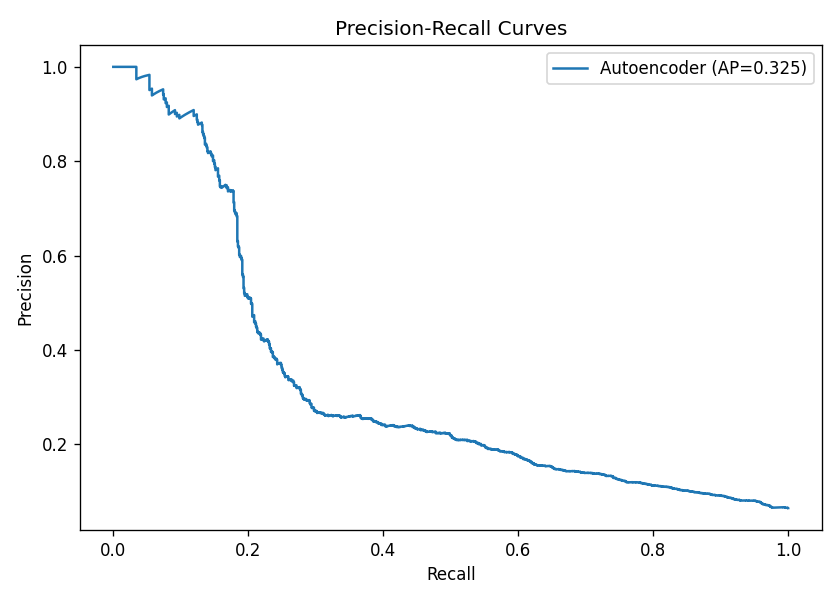
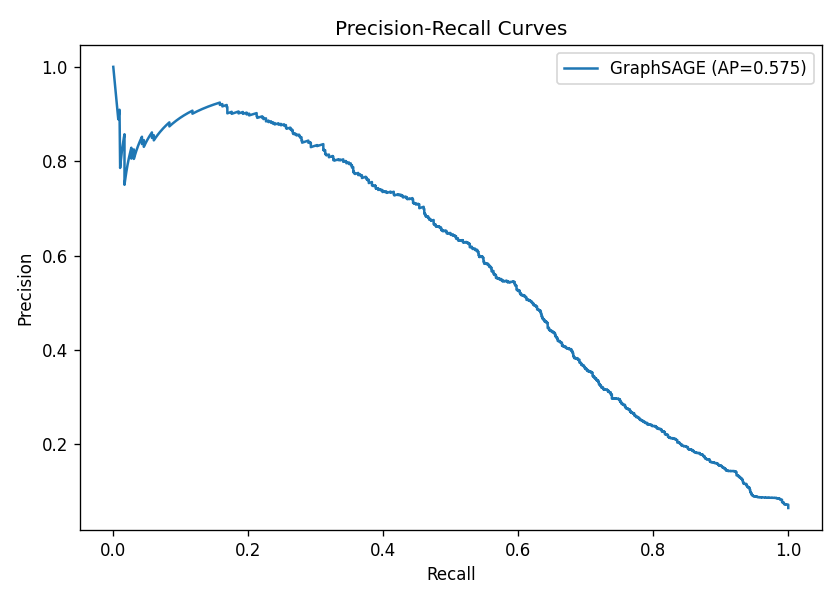
Add GraphSAGE GNN, training script, and graph utils

diff --git a/scripts/05_gnn.py b/scripts/05_gnn.py
@@ -1,0 +1,79 @@
+import sys
+sys.path.insert(0, '..')
+
+import torch
+import numpy as np
+import matplotlib.pyplot as plt
+
+from src.data_loader import load_all
+from src.graph_utils import build_graph
+from src.gnn import GraphSAGE, train_epoch, evaluate, class_weights
+from src.evaluation import evaluate as eval_metrics, plot_confusion_matrix, plot_pr_curve
+
+DEVICE  = torch.device("cuda" if torch.cuda.is_available() else "cpu")
+EPOCHS  = 200
+LR      = 1e-3
+HIDDEN  = 128
+
+print(f"Device: {DEVICE}")
+if DEVICE.type == "cuda":
+    print(f"GPU: {torch.cuda.get_device_name(0)}")
+
+# --- build graph ---
+df, edges = load_all()
+data, node_ids, scaler = build_graph(df, edges)
+
+# move to device incrementally (full graph fits in 12 GB VRAM)
+data = data.to(DEVICE)
+
+# --- model + optimizer ---
+input_dim = data.x.shape[1]
+model = GraphSAGE(input_dim=input_dim, hidden_dim=HIDDEN, output_dim=2, dropout=0.3).to(DEVICE)
+
+y_train = data.y[data.train_mask]
+weights = class_weights(y_train, DEVICE)
+criterion = torch.nn.CrossEntropyLoss(weight=weights)
+optimizer = torch.optim.Adam(model.parameters(), lr=LR, weight_decay=5e-4)
+scheduler = torch.optim.lr_scheduler.CosineAnnealingLR(optimizer, T_max=EPOCHS)
+
+print(f"\nModel params: {sum(p.numel() for p in model.parameters()):,}")
+print(f"Class weights: licit={weights[0]:.3f}  illicit={weights[1]:.3f}")
+print(f"\nTraining GraphSAGE for {EPOCHS} epochs...")
+
+# --- training loop ---
+losses = []
+for epoch in range(1, EPOCHS + 1):
+    loss = train_epoch(model, data, optimizer, criterion, DEVICE)
+    scheduler.step()
+    losses.append(loss)
+    if epoch % 40 == 0:
+        tr_mask = data.train_mask.cpu().numpy().astype(bool)
+        te_mask = data.test_mask.cpu().numpy().astype(bool)
+        _, tr_probs, tr_labels = evaluate(model, data, tr_mask, DEVICE)
+        _, te_probs, te_labels = evaluate(model, data, te_mask, DEVICE)
+        from sklearn.metrics import roc_auc_score
+        tr_auc = roc_auc_score(tr_labels, tr_probs)
+        te_auc = roc_auc_score(te_labels, te_probs)
+        print(f"  Epoch {epoch:3d}  loss={loss:.4f}  train_auc={tr_auc:.4f}  test_auc={te_auc:.4f}")
+
+# --- loss curve ---
+fig, ax = plt.subplots(figsize=(8, 4))
+ax.plot(losses)
+ax.set_xlabel("Epoch")
+ax.set_ylabel("Loss")
+ax.set_title("GraphSAGE training loss")
+plt.tight_layout()
+plt.savefig("../reports/gnn_loss.png", dpi=120)
+plt.show()
+
+# --- final evaluation ---
+test_mask_np = data.test_mask.cpu().numpy().astype(bool)
+y_pred, y_score, y_true = evaluate(model, data, test_mask_np, DEVICE)
+
+res = eval_metrics(y_true, y_pred, y_score, name="GraphSAGE")
+plot_confusion_matrix(y_true, y_pred, name="GraphSAGE", save=True)
+plot_pr_curve(y_true, {"GraphSAGE": y_score}, save=True)
+
+# --- save ---
+torch.save(model.state_dict(), "../models/graphsage.pt")
+print("\nModel saved to models/graphsage.pt")

diff --git a/src/graph_utils.py b/src/graph_utils.py
@@ -1,0 +1,66 @@
+import numpy as np
+import pandas as pd
+import torch
+from torch_geometric.data import Data
+from sklearn.preprocessing import StandardScaler
+import sys, os
+sys.path.insert(0, os.path.join(os.path.dirname(__file__), ".."))
+from src.preprocessing import TRAIN_STEPS, TEST_STEPS, LABEL_MAP
+
+
+def build_graph(df: pd.DataFrame, edges: pd.DataFrame):
+    """
+    Build a PyG Data object from the full Elliptic dataset.
+
+    Returns:
+        data       - PyG Data with x, edge_index, y, train_mask, test_mask
+        node_ids   - array mapping row index → txId
+        scaler     - fitted StandardScaler
+    """
+    # node index: stable ordering by txId
+    node_ids = df["txId"].values
+    id_to_idx = {txid: i for i, txid in enumerate(node_ids)}
+
+    # node features (drop txId, class, label)
+    feat_drop = {"txId", "class", "label"}
+    feat_cols = [c for c in df.columns if c not in feat_drop]
+    X = df[feat_cols].values.astype(np.float32)
+
+    # scale using train-step rows only
+    train_mask_np = df["time_step"].isin(TRAIN_STEPS).values
+    scaler = StandardScaler()
+    scaler.fit(X[train_mask_np])
+    X = scaler.transform(X)
+
+    # edge index — drop edges where either node not in graph
+    valid = edges["txId1"].isin(id_to_idx) & edges["txId2"].isin(id_to_idx)
+    edges_valid = edges[valid]
+    src = edges_valid["txId1"].map(id_to_idx).values
+    dst = edges_valid["txId2"].map(id_to_idx).values
+    # undirected: add both directions
+    edge_index = torch.tensor(
+        np.stack([np.concatenate([src, dst]),
+                  np.concatenate([dst, src])], axis=0),
+        dtype=torch.long,
+    )
+
+    # labels: -1 = unknown, 0 = licit, 1 = illicit
+    label_series = df["class"].map({"1": 1, "2": 0})
+    y = label_series.fillna(-1).astype(int).values
+
+    # masks: labeled nodes only, split by time step
+    labeled = y >= 0
+    train_mask = labeled & train_mask_np
+    test_mask  = labeled & df["time_step"].isin(TEST_STEPS).values
+
+    data = Data(
+        x          = torch.tensor(X, dtype=torch.float32),
+        edge_index = edge_index,
+        y          = torch.tensor(y, dtype=torch.long),
+        train_mask = torch.tensor(train_mask, dtype=torch.bool),
+        test_mask  = torch.tensor(test_mask,  dtype=torch.bool),
+    )
+
+    print(f"Graph: {data.num_nodes:,} nodes  {data.num_edges:,} edges  "
+          f"train_labeled={train_mask.sum():,}  test_labeled={test_mask.sum():,}")
+    return data, node_ids, scaler

diff --git a/src/gnn.py b/src/gnn.py
@@ -1,0 +1,50 @@
+import torch
+import torch.nn as nn
+import torch.nn.functional as F
+from torch_geometric.nn import SAGEConv
+
+
+class GraphSAGE(nn.Module):
+    def __init__(self, input_dim: int, hidden_dim: int = 64, output_dim: int = 2, dropout: float = 0.3):
+        super().__init__()
+        self.conv1 = SAGEConv(input_dim, hidden_dim)
+        self.conv2 = SAGEConv(hidden_dim, hidden_dim)
+        self.classifier = nn.Linear(hidden_dim, output_dim)
+        self.dropout = dropout
+
+    def forward(self, x, edge_index):
+        x = self.conv1(x, edge_index)
+        x = F.relu(x)
+        x = F.dropout(x, p=self.dropout, training=self.training)
+        x = self.conv2(x, edge_index)
+        x = F.relu(x)
+        x = F.dropout(x, p=self.dropout, training=self.training)
+        return self.classifier(x)
+
+
+def train_epoch(model, data, optimizer, criterion, device):
+    model.train()
+    optimizer.zero_grad()
+    out = model(data.x.to(device), data.edge_index.to(device))
+    loss = criterion(out[data.train_mask], data.y[data.train_mask].to(device))
+    loss.backward()
+    optimizer.step()
+    return loss.item()
+
+
[email redacted]_grad()
+def evaluate(model, data, mask, device):
+    model.eval()
+    out = model(data.x.to(device), data.edge_index.to(device))
+    probs = F.softmax(out, dim=1)[:, 1].cpu().numpy()
+    preds = out.argmax(dim=1).cpu().numpy()
+    labels = data.y.cpu().numpy()
+    return preds[mask], probs[mask], labels[mask]
+
+
+def class_weights(y_train_tensor, device):
+    """Inverse-frequency weights for imbalanced binary classification."""
+    counts = torch.bincount(y_train_tensor)
+    weights = 1.0 / counts.float()
+    weights = weights / weights.sum()
+    return weights.to(device)